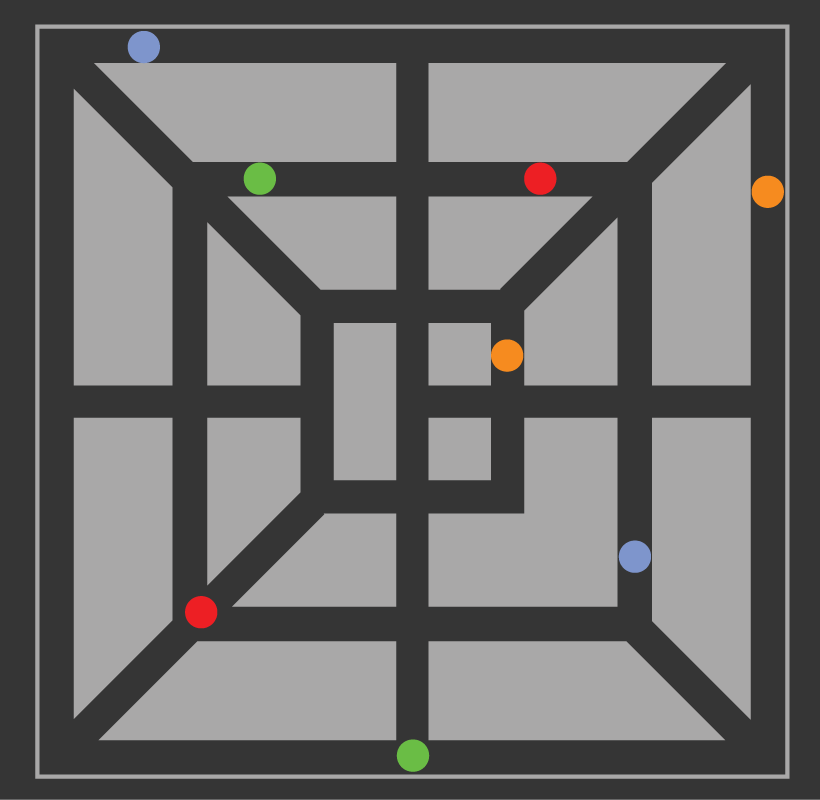
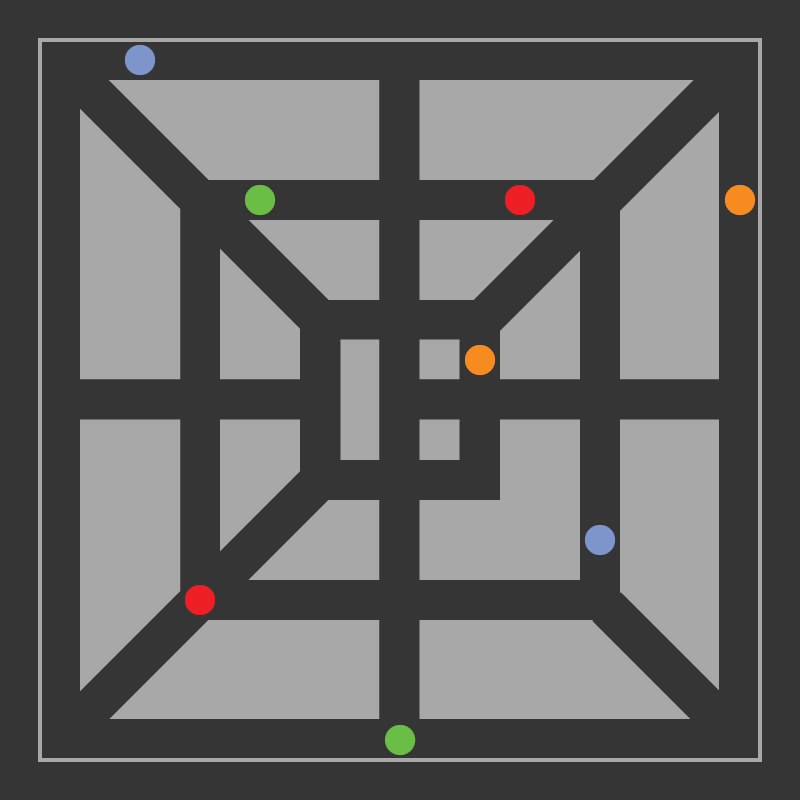
Drew all the circles

diff --git a/TrainPipes.py b/TrainPipes.py
@@ -17,10 +17,12 @@ CELLHEIGHT = int(WINDOWHEIGHT / CELLSIZE)
 #             R    G    B
 WHITE     = (255, 255, 255)
 BLACK     = (  0,   0,   0)
-RED       = (255,   0,   0)
-GREEN     = (  0, 255,   0)
+RED       = (237,  31,  36)
+GREEN     = (106, 189,  69)
 DARKGREEN = (  0, 155,   0)
 DARKGRAY  = ( 40,  40,  40)
+BLUE      = (126, 149, 204)
+ORANGE    = (246, 139,  31)
 BGCOLOR = BLACK
 
 UP = 'up'
@@ -101,6 +103,7 @@ def runGame():
             newHead = {'x': wormCoords[HEAD]['x'] + 1, 'y': wormCoords[HEAD]['y']}
         wormCoords.insert(0, newHead)
         DISPLAYSURF.blit(bgimg, (0, 0))
+        drawCircles()
         drawGrid()
         drawWorm(wormCoords)
         drawApple(apple)
@@ -218,6 +221,28 @@ def drawGrid():
         pygame.draw.line(DISPLAYSURF, DARKGRAY, (x, 0), (x, WINDOWHEIGHT))
     for y in range(0, WINDOWHEIGHT, CELLSIZE): # draw horizontal lines
         pygame.draw.line(DISPLAYSURF, DARKGRAY, (0, y), (WINDOWWIDTH, y))
+
+def drawCircles():
+    rad = 16
+    blue0 = Circle(BLUE, (int((3.5 * CELLSIZE)), int((1.5 * CELLSIZE))), rad)
+    blue1 = Circle(BLUE, (int((15 * CELLSIZE)), int((13.5 * CELLSIZE))), rad)
+    pygame.draw.circle(DISPLAYSURF, blue0.getColor(), blue0.getPos(), int(blue0.getRadius()), 0)
+    pygame.draw.circle(DISPLAYSURF, blue1.getColor(), blue1.getPos(), int(blue1.getRadius()), 0)
+
+    green0 = Circle(GREEN, (int((6.5 * CELLSIZE)), int((5 * CELLSIZE))), rad)
+    green1 = Circle(GREEN, (int((10 * CELLSIZE)), int((18.5 * CELLSIZE))), rad)
+    pygame.draw.circle(DISPLAYSURF, green0.getColor(), green0.getPos(), int(green0.getRadius()), 0)
+    pygame.draw.circle(DISPLAYSURF, green1.getColor(), green1.getPos(), int(green1.getRadius()), 0)
+
+    red0 = Circle(RED, (int((13 * CELLSIZE)), int((5 * CELLSIZE))), rad)
+    red1 = Circle(RED, (int((5 * CELLSIZE)), int((15 * CELLSIZE))), rad)
+    pygame.draw.circle(DISPLAYSURF, red0.getColor(), red0.getPos(), int(red0.getRadius()), 0)
+    pygame.draw.circle(DISPLAYSURF, red1.getColor(), red1.getPos(), int(red1.getRadius()), 0)
+
+    orange0 = Circle(ORANGE, (int((12 * CELLSIZE)), int((9 * CELLSIZE))), rad)
+    orange1 = Circle(ORANGE, (int((18.5 * CELLSIZE)), int((5 * CELLSIZE))), rad)
+    pygame.draw.circle(DISPLAYSURF, orange0.getColor(), orange0.getPos(), int(orange0.getRadius()), 0)
+    pygame.draw.circle(DISPLAYSURF, orange1.getColor(), orange1.getPos(), int(orange1.getRadius()), 0)
 
 class Circle:
     
